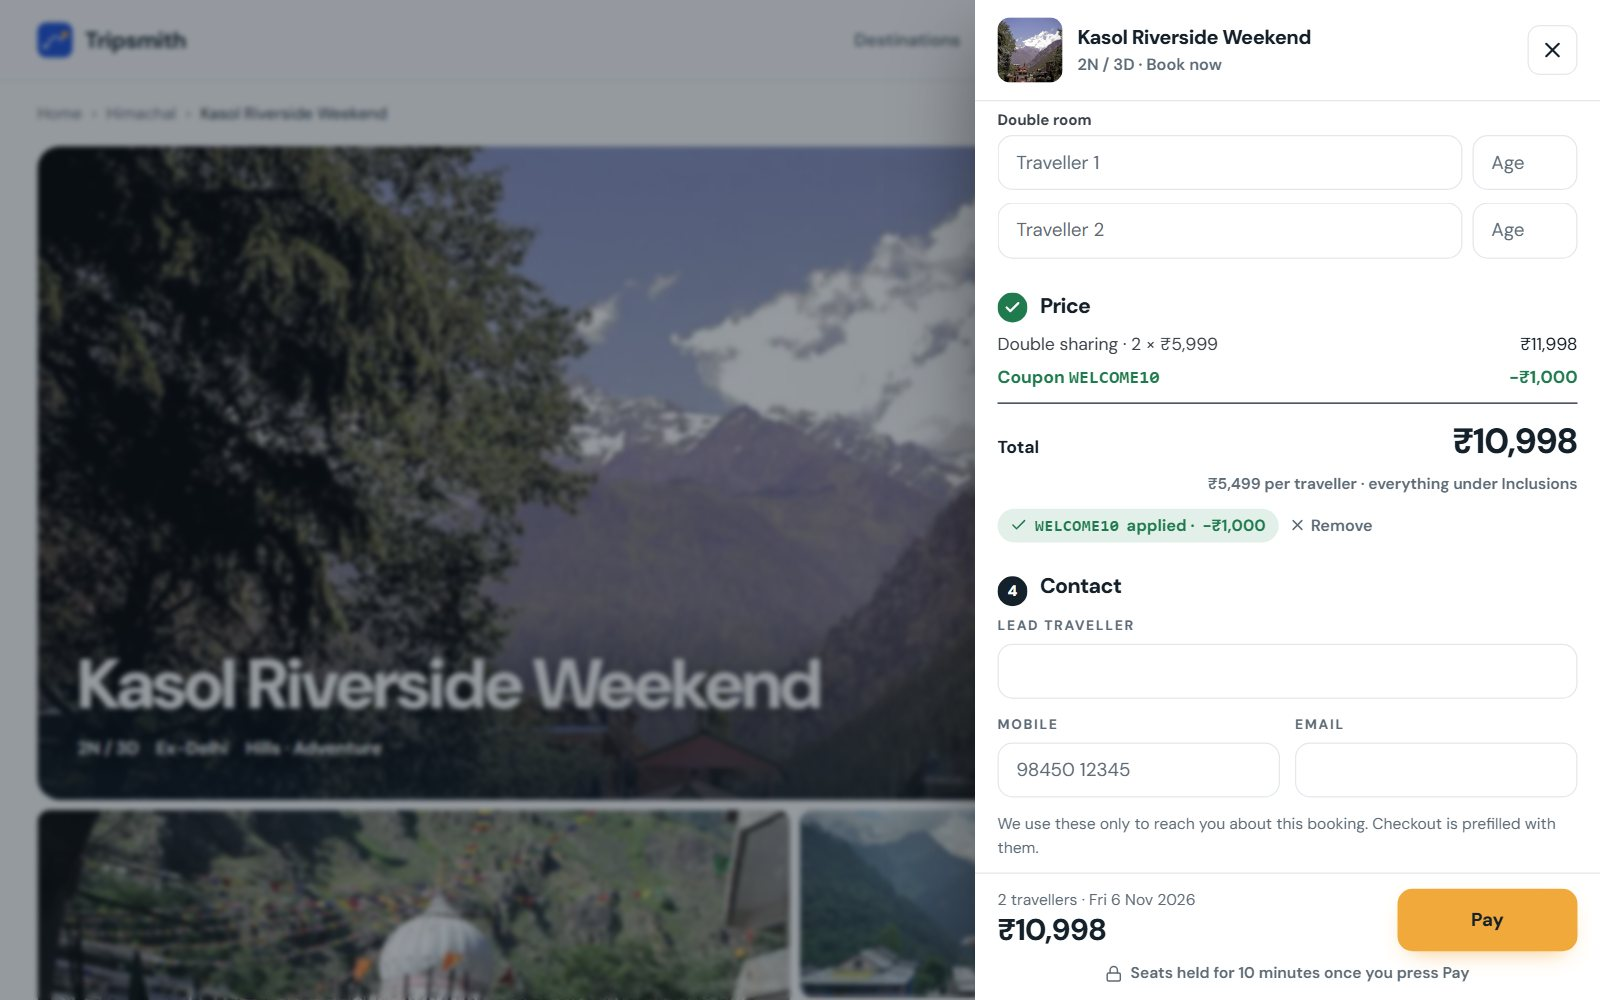
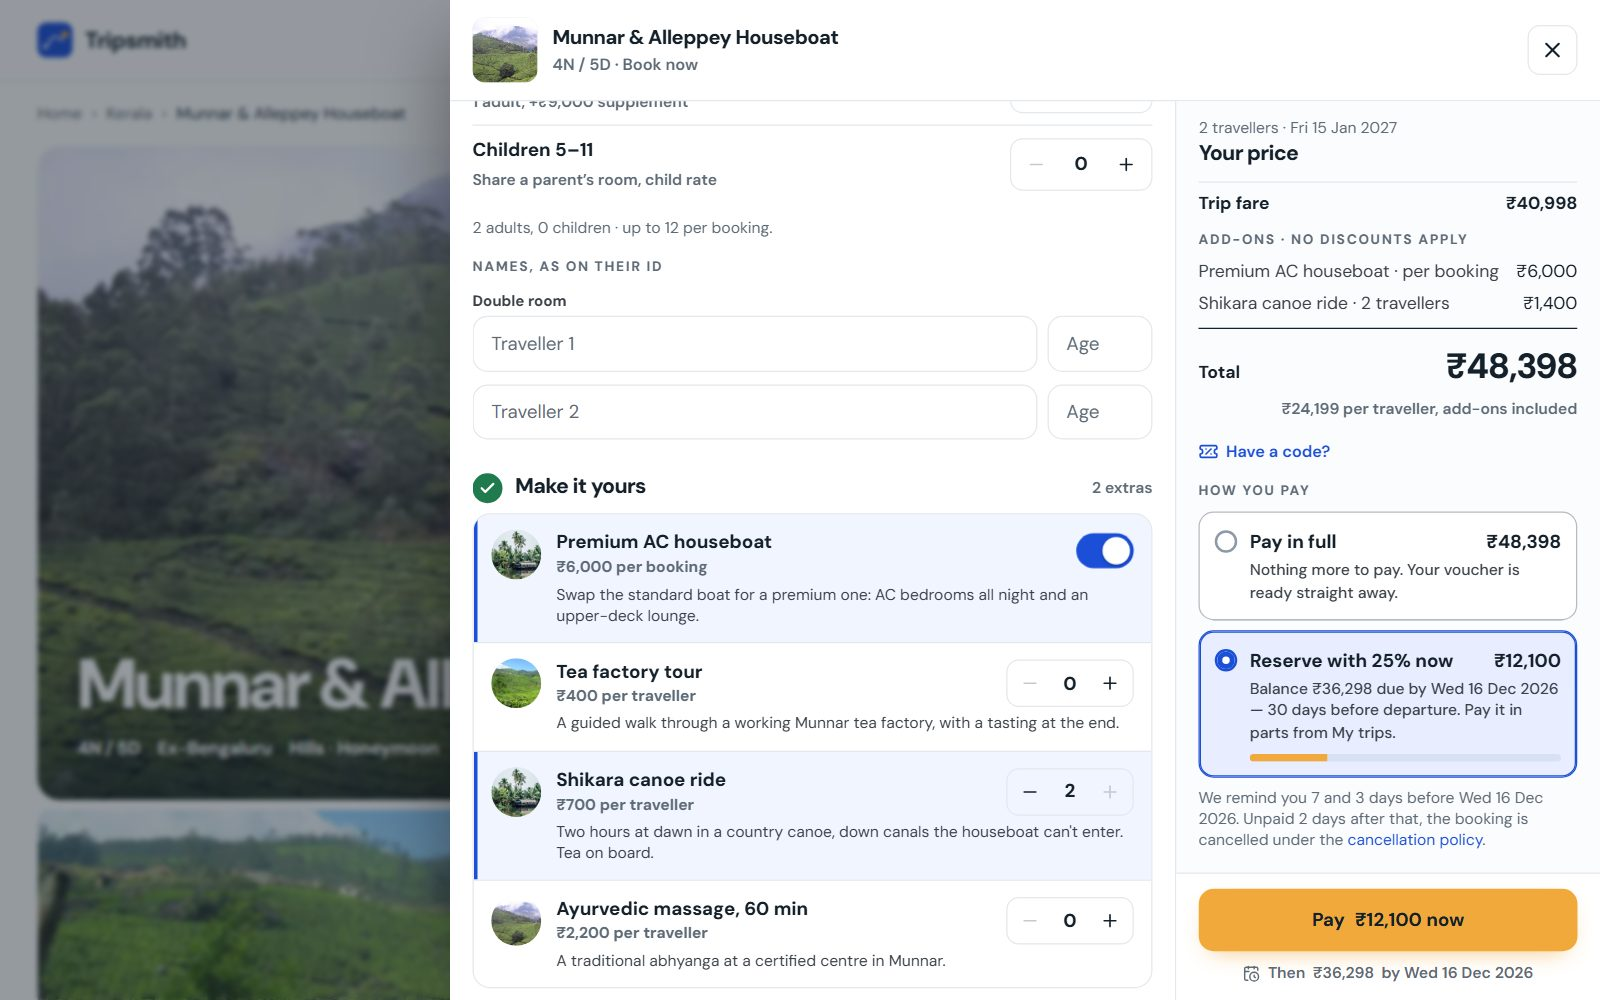
feat(tripsmith): v2.5 live — status, blurb, screenshot, detail page

diff --git a/lib/content.ts b/lib/content.ts
@@ -52,13 +52,13 @@ export const content: Content = {
     { degree: 'B.Sc. Information Technology', school: 'Narsee Monjee College of Commerce and Economics, Mumbai University', years: '2019–2022', note: '8.33 CGPA' },
   ],
   projects: [
-    { slug: 'tripsmith', title: 'Tripsmith', category: 'Travel + AI concierge', status: 'v2 live · bookings + payments',
-      blurb: 'A travel agency on its own site: book and pay by Razorpay (test mode) with live seats, deals and coupons, get a PDF voucher, manage trips and reviews in an account; an owner desk runs the bookings. AI concierge next.',
+    { slug: 'tripsmith', title: 'Tripsmith', category: 'Travel + AI concierge', status: 'v2.5 live · bookings, payments + operator desk',
+      blurb: 'A travel agency’s own booking site: live seats, add-ons, deposits, a waitlist, Razorpay (test mode), GST invoices and real refunds — and an owner desk with counter booking, a calendar and reports. AI concierge next.',
       stack: ['Next.js', 'TypeScript', 'FastAPI', 'PostgreSQL', 'SQLAlchemy', 'Tailwind CSS', 'Razorpay'],
       live: 'https://tripsmith.virajdomadia.com', repo: 'https://github.com/virajdomadia/tripsmith', image: '/images/projects/tripsmith.jpg',
       detail: {
         pitch: 'A travel agency’s own booking site: live seats, Razorpay checkout, PDF vouchers and GST invoices, and an owner desk on the same API.',
-        facts: { role: 'Solo — design, frontend, API, database, deploy', year: '2026', version: 'v2.5 (in progress)' },
+        facts: { role: 'Solo — design, frontend, API, database, deploy', year: '2026', version: 'v2.5' },
         media: [
           { kind: 'image', src: '/projects/tripsmith/home.webp', alt: 'Tripsmith home page: headline over a Kerala backwaters photo and a search by place, month and budget', caption: 'Home — search by place, month and budget' },
           { kind: 'clip', webm: '/projects/tripsmith/browse.webm', mp4: '/projects/tripsmith/browse.mp4', poster: '/projects/tripsmith/browse.jpg', seconds: 8, alt: 'Clip: searching Himachal from the home page and opening the Kasol package', caption: 'Search to package' },
@@ -75,7 +75,7 @@ export const content: Content = {
         ],
         sections: {
           problem: 'A small Indian tour agency sells fixed-date group trips: a set itinerary, a price per person and a limited number of seats per departure. Most run on WhatsApp, phone calls and a spreadsheet, so two people can pay for the same last seat, prices are worked out by hand, and nobody can see who changed a booking. Tripsmith is that agency’s own site, built so every seat, rupee and change is accounted for.',
-          built: 'A Next.js site with 14 packages and 51 departures; package and destination pages are generated ahead of time and refresh on demand when the owner edits them. A FastAPI + Postgres API behind it. Customers book with live seats, add-ons, deals, early-bird prices and coupons; pay in full or a 25% deposit through Razorpay in test mode; get a PDF voucher and GST invoice; and sign in with an emailed 6-digit code to manage their trips. The owner runs bookings, refunds, enquiries, packages, coupons, reviews and counter bookings over Razorpay Payment Links from an admin desk on the same API.',
+          built: 'A Next.js site with 14 packages and 51 departures; package and destination pages are generated ahead of time and refresh on demand when the owner edits them. A FastAPI + Postgres API behind it. Customers book with live seats, add-ons, deals, early-bird prices and coupons; pay in full or a 25% deposit through Razorpay in test mode; get a PDF voucher and GST invoice; and sign in with an emailed 6-digit code to manage their trips. Customers can also join a waitlist on a sold-out date, change their date, save and compare trips, fill in traveller details and open a trip pack a week before they leave. The owner runs bookings, refunds, enquiries, packages, coupons, reviews and counter bookings over Razorpay Payment Links from an admin desk on the same API, with a departure calendar, reports that reconcile with the bookings CSV, and automatic trip emails.',
           decisions: [
             { title: 'The server owns the price', body: 'Every quote is built on the server in whole paise: deal, then early-bird, then coupon, with add-ons added last. The browser never sends a price; the owner’s counter screen sends the total it expects and gets 409 price_changed if it moved.' },
             { title: 'Seats are held, not hoped for', body: 'Pressing Pay creates a 10-minute hold. The server locks the customer’s email or phone, then the departure row (FOR UPDATE). A test fires two orders for the last seat at once: exactly one wins, the other gets 409 sold_out.' },
@@ -83,16 +83,16 @@ export const content: Content = {
             { title: 'History can’t be rewritten', body: 'Every booking change is written to booking_events, and a Postgres trigger refuses any UPDATE or DELETE on it. The owner sees it as a timeline, the customer as “Activity”.' },
             { title: 'GST numbers have no gaps', body: 'Receipts, tax invoices and credit notes are numbered per financial year (TS/2026-27/0001) from a counter row taken in the same transaction as the document; PDFs are made with fpdf2. The GSTIN is a demo one, labelled not registered.' },
           ],
-          outcome: 'Live at tripsmith.virajdomadia.com, taking bookings in Razorpay test mode. Over 750 API tests and over 500 web tests. CI runs three jobs: web, api, and an OpenAPI contract check that fails if the generated types drift. The booking page scores 94 on PageSpeed mobile.',
+          outcome: 'Live at tripsmith.virajdomadia.com, taking bookings in Razorpay test mode. Over 1,000 API tests and nearly 700 web tests, with a forced-race test on every lock path. CI runs three jobs: web, api, and an OpenAPI contract check that fails if the generated types drift. The booking page scores PSI_BOOK on PageSpeed mobile.',
         },
         versions: [
           { name: 'v1 Agency website', summary: 'Catalog, search, package pages, enquiries + WhatsApp, itinerary PDF, owner admin.', state: 'shipped' },
           { name: 'v2 Booking engine', summary: 'Razorpay checkout, webhooks, accounts, deals, coupons, reviews, owner bookings desk.', state: 'shipped' },
-          { name: 'v2.5 Strengthen', summary: 'Partly live: history log, refunds + GST documents, add-ons, early-bird, deposit + balance, counter booking, admin redesign. Still to come: waitlist, date change, calendar, reports.', state: 'next' },
+          { name: 'v2.5 Strengthen', summary: 'Deposits, add-ons, early-bird, a waitlist, date change, refunds + GST documents, traveller details, a trip pack, saved trips + compare, counter booking, a departure calendar, reports and automatic emails.', state: 'shipped' },
           { name: 'v3 AI concierge', summary: 'Chat that searches the catalog, checks seats and starts a booking.', state: 'next' },
           { name: 'v4 Tripsmith anywhere', summary: 'An MCP server with the same tools.', state: 'next' },
         ],
-        updated: '2026-10-01',
+        updated: '2026-10-13',
       } },
     { slug: 'frontrow', title: 'Frontrow', category: 'Live seat-map ticketing', status: 'Live',
       blurb: 'Movie and concert tickets on a live seat map: tap a seat and it is held for ten minutes and greys out for everyone else — Redis holds, transactions, idempotent payments, QR tickets.',

diff --git a/tests/projects.test.tsx b/tests/projects.test.tsx
@@ -14,7 +14,7 @@ describe('Projects', () => {
     expect(screen.getByRole('heading', { level: 3, name: 'Tripsmith' })).toBeInTheDocument()
     expect(screen.queryByText(/In build/)).toBeNull()
     expect(screen.getAllByText(/· Live$/)).toHaveLength(5)
-    expect(screen.getByText(/v2 live · bookings \+ payments/)).toBeInTheDocument()
+    expect(screen.getByText(/v2\.5 live · bookings, payments \+ operator desk/)).toBeInTheDocument()
     expect(screen.getByRole('link', { name: 'All repos on GitHub' })).toHaveAttribute('href', 'https://github.com/virajdomadia')
   })
   it('only Tripsmith has a detail page: "View project →" and a linked title; the others do not', () => {

diff --git a/tests/content.test.ts b/tests/content.test.ts
@@ -10,8 +10,8 @@ describe('content', () => {
     for (const p of content.projects) {
       expect(p.live).toMatch(/^https:\/\/.+\.(vercel\.app|virajdomadia\.com)$/)
       expect(p.repo).toBe(`https://github.com/virajdomadia/${p.slug}`)
-      // Tripsmith shipped v2 on 2026-09-26; the other five are still landing pages.
-      expect(p.status).toMatch(p.slug === 'tripsmith' ? /^v2 live/ : /^Live$/)
+      // Tripsmith shipped v2.5 on 2026-10-13; the other five are still landing pages.
+      expect(p.status).toMatch(p.slug === 'tripsmith' ? /^v2\.5 live/ : /^Live$/)
     }
   })
   it('has 30 tools across four layers with honest years (≤ 2)', () => {
